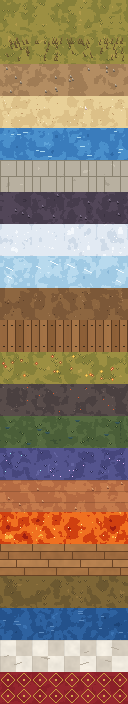
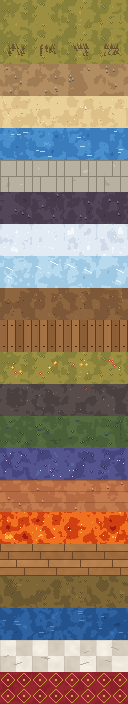
Keep flower and tallgrass patches on the same grass, with no edge of their own.

diff --git a/tools/art_pipeline/tiles.py b/tools/art_pipeline/tiles.py
@@ -146,35 +146,58 @@ PETALS = {
 
 
 def _field(name, season):
-    """Shared noise for a ground. Tallgrass and flowers keep grass's field so a patch
-    meets the lawn the way two grass tiles meet, instead of cutting on a square."""
+    """Shared noise for a ground. Tallgrass and flowers are grass with something on top,
+    so they use the grass field and never grow a seam of their own."""
     key = "grass" if name in ("tallgrass", "flowers") else name
     return fbm(np.random.default_rng(zlib.crc32(f"{key}:{season}".encode())))
 
 
+def _stamp(img, x, y, color):
+    """Paint one pixel and drop anything that would wrap onto the far edge."""
+    if 0 <= x < T and 0 <= y < T:
+        img[y, x] = hexc(color) if isinstance(color, str) else color
+
+
+def _on_grass(name, season, variant, shared_only):
+    """Same grass tile as the lawn, with flowers or blades kept off the border."""
+    img = np.array(make_tile("grass", season, variant, shared_only), dtype=np.float64)
+    if shared_only:
+        return np.clip(img, 0, 255).astype(np.uint8)
+    rng = np.random.default_rng(zlib.crc32(f"{name}:{season}:{variant}".encode()))
+    if name == "flowers":
+        for _ in range(5):
+            x, y = spot(rng, 8)
+            c = PETALS[season][rng.integers(0, len(PETALS[season]))]
+            for dx, dy in ((0, -1), (-1, 0), (1, 0), (0, 1)):
+                _stamp(img, x + dx, y + dy, c)
+            _stamp(img, x, y, "#f8e070")
+    else:
+        dark = DARK[season]
+        lean = 1 if variant % 2 else -1
+        for _ in range(16):
+            x, y = spot(rng, 8)
+            y = max(int(y), 16)
+            h = int(rng.integers(4, 7))
+            for i in range(h):
+                _stamp(img, x + (i // 3) * lean, y - i, dark[1] if i < h - 1 else dark[3])
+            _stamp(img, x + 1, y, dark[0])
+    return np.clip(img, 0, 255).astype(np.uint8)
+
+
 def make_tile(name, season, variant, shared_only=False):
+    if name in ("flowers", "tallgrass"):
+        return _on_grass(name, season, variant, shared_only)
     rng = np.random.default_rng(zlib.crc32(f"{name}:{season}:{variant}".encode()))
     shared = _field(name, season)
     # Shores use the shared field alone so they meet the neighboring ground tile.
     n = shared if shared_only else shared + (fbm(rng) - shared) * EDGE_W
-    if name in ("grass", "flowers", "tallgrass"):
+    if name == "grass":
         g = GRASS[season]
         img = ramp(n * 0.55 + 0.25, g)
         if season == "winter":
             specks(img, rng, 6, ["#ffffff", "#b8c8dc"])
         else:
-            tufts(img, rng, 7 if name == "grass" else 10, g[0], g[3])
-        if name == "flowers":
-            flowers(img, rng, 5, PETALS[season])
-        if name == "tallgrass":
-            dark = DARK[season]
-            for _ in range(16):
-                x, y = spot(rng)
-                y = max(y, 11)
-                h = rng.integers(4, 8)
-                for i in range(h):
-                    put(img, x + (i // 3) * (1 if variant % 2 else -1), y - i, dark[1] if i < h - 1 else dark[3])
-                put(img, x + 1, y, dark[0])
+            tufts(img, rng, 7, g[0], g[3])
     elif name == "darkgrass":
         img = ramp(n * 0.55 + 0.25, DARK[season])
         tufts(img, rng, 8, DARK[season][0], DARK[season][3])
